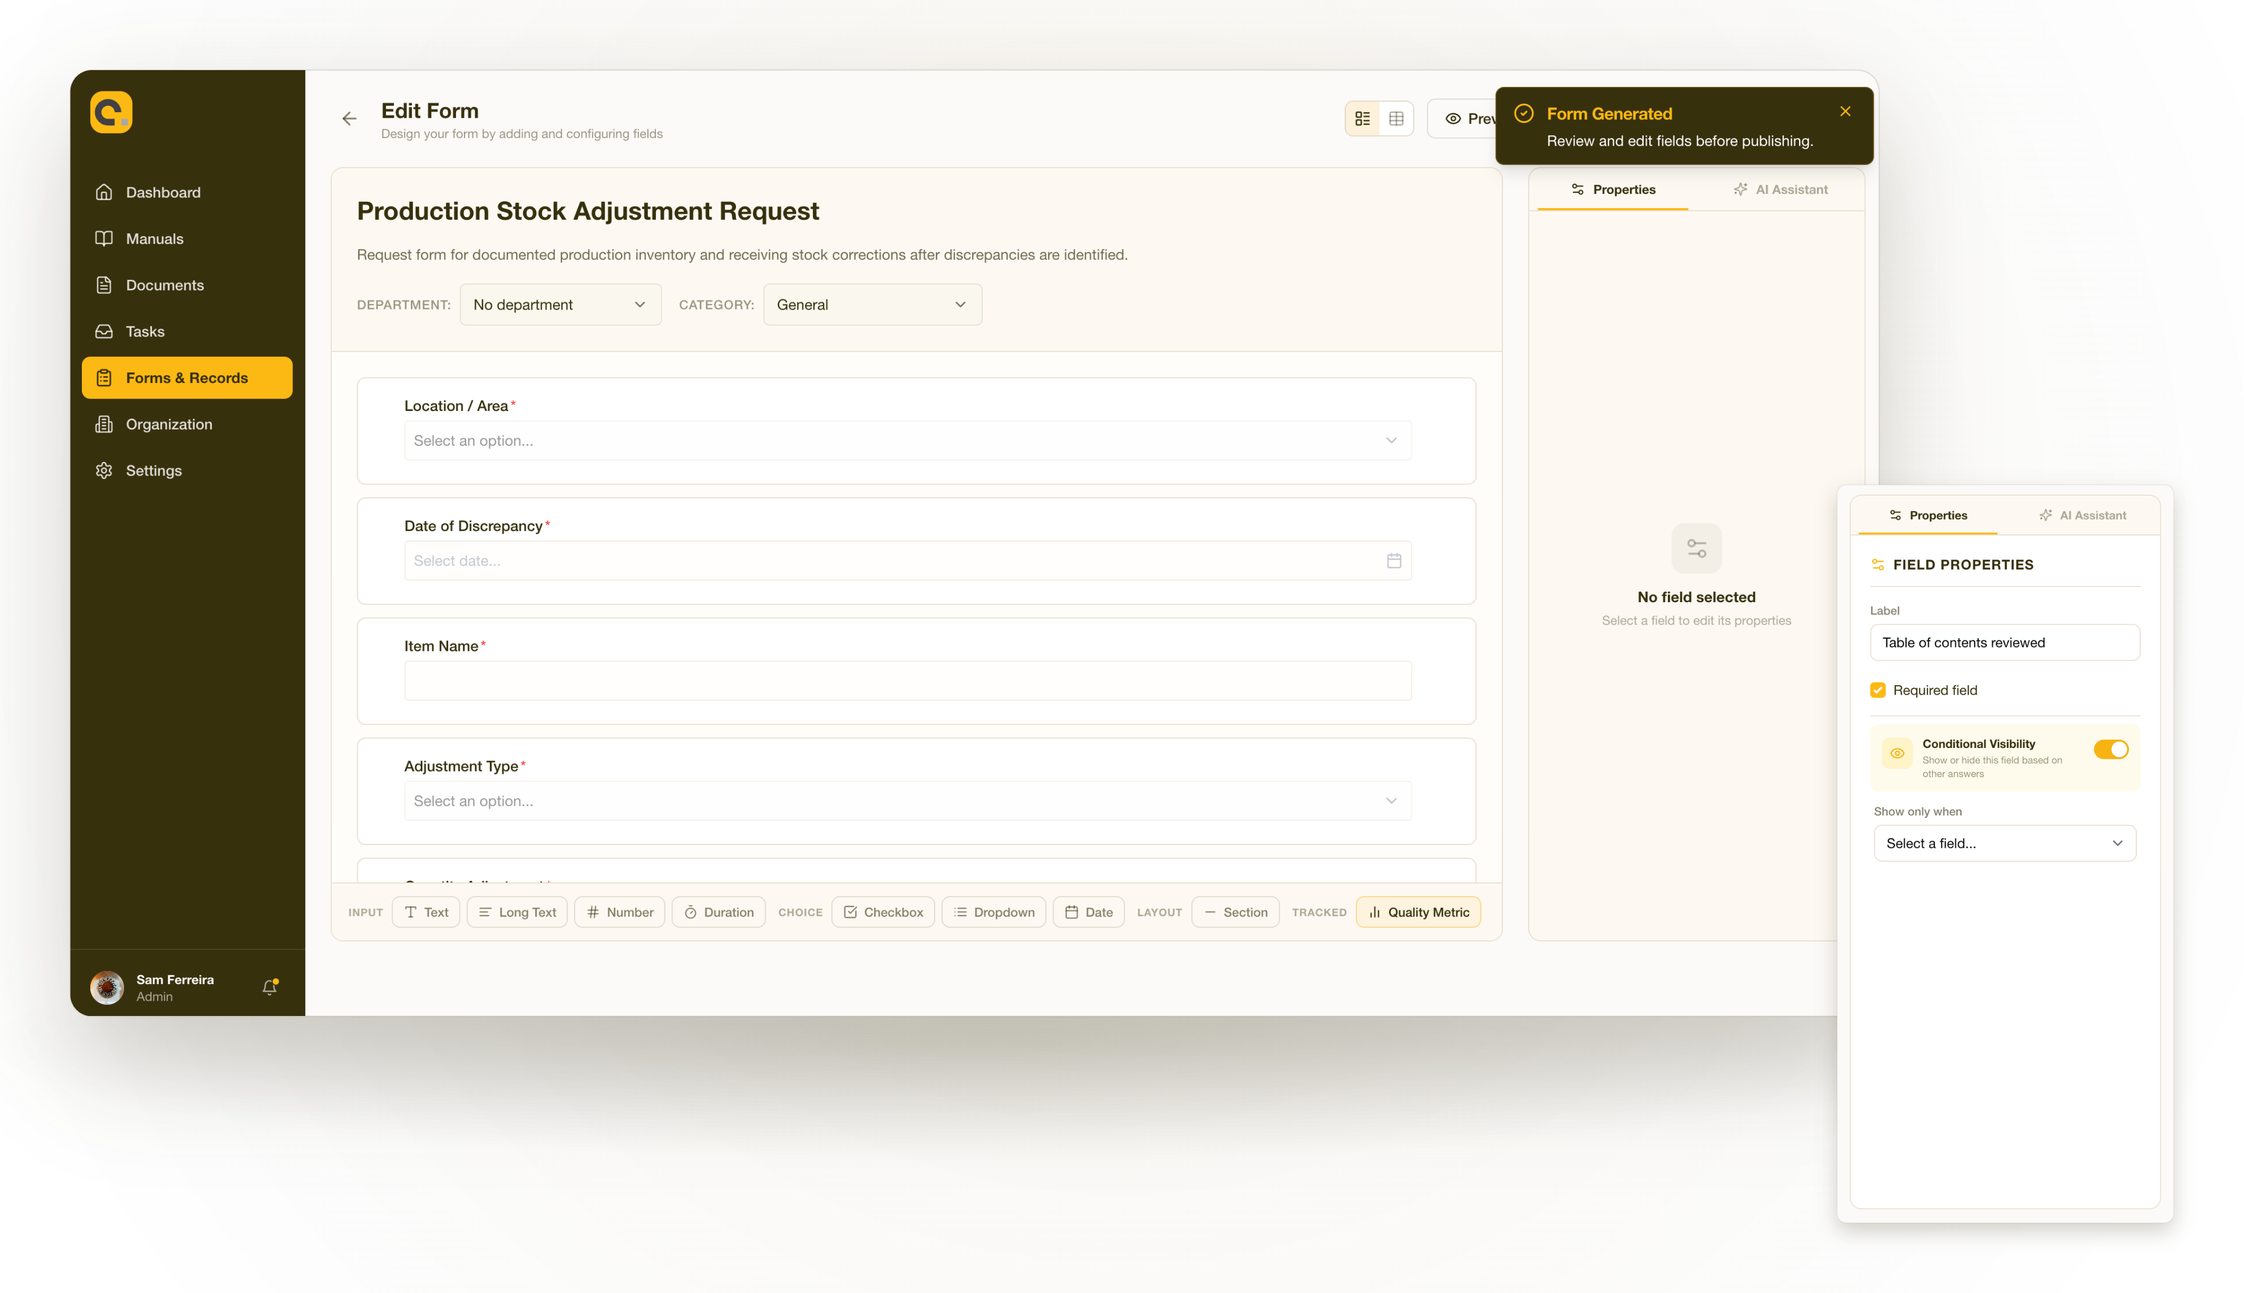
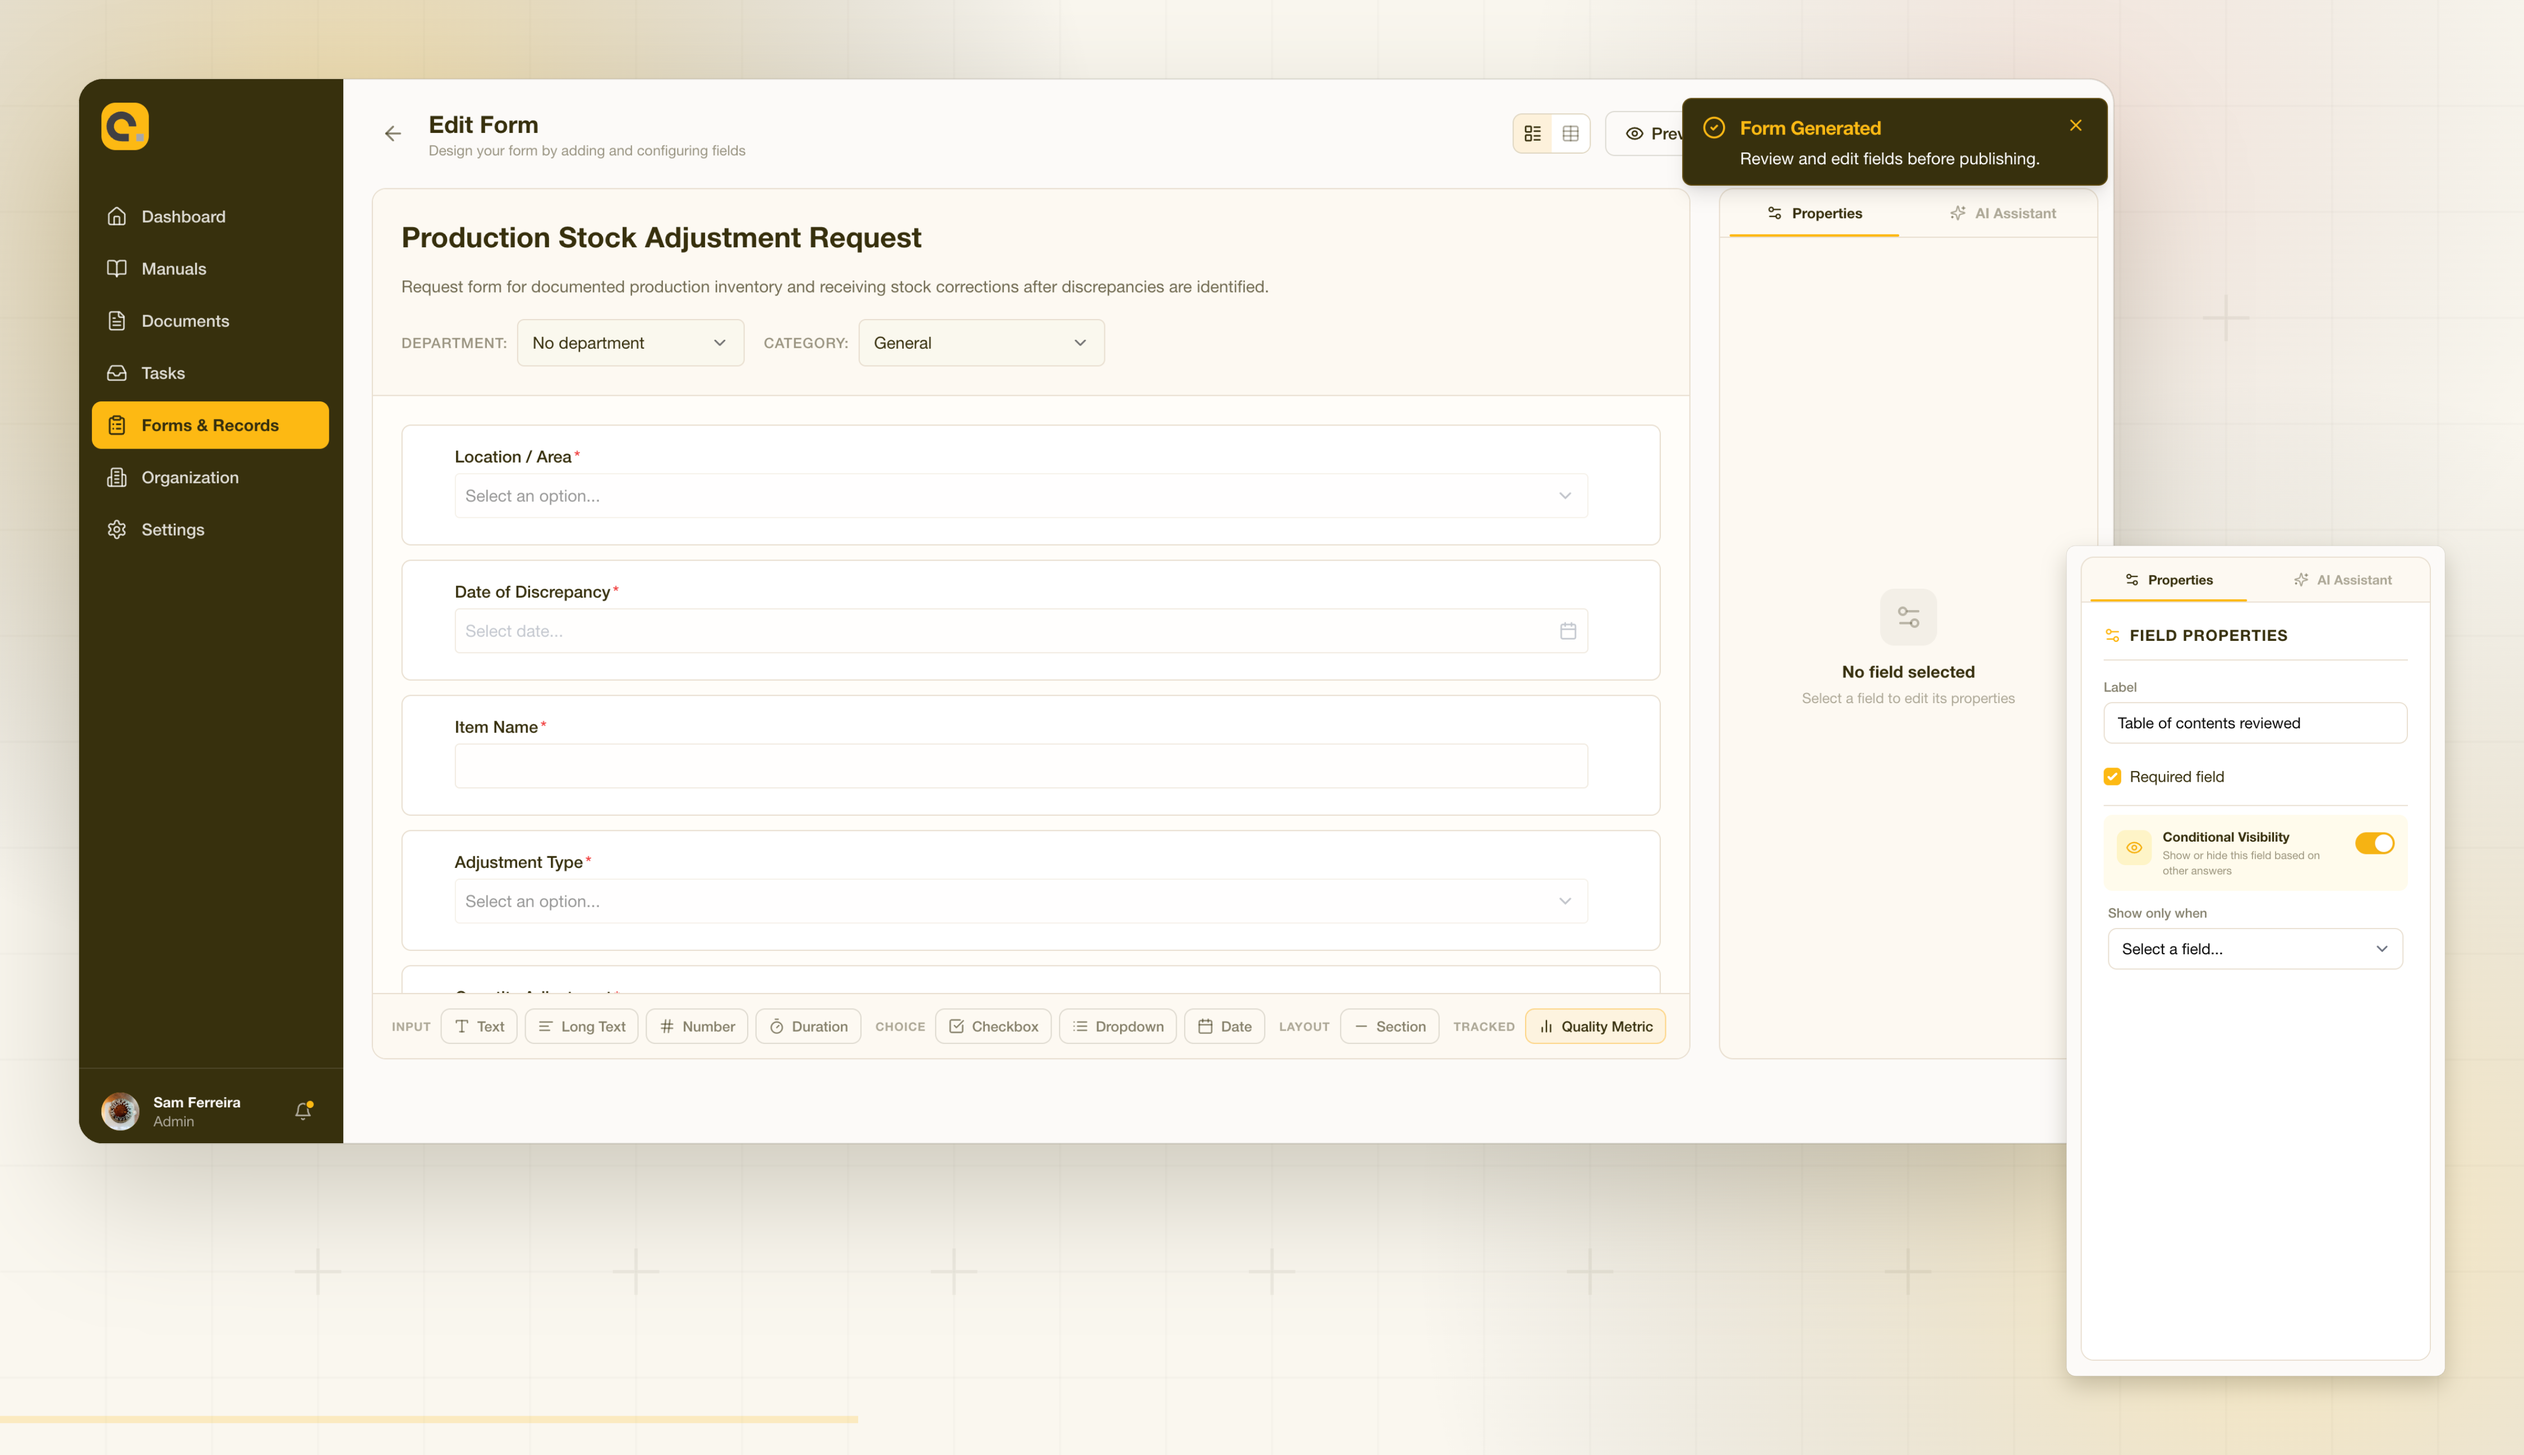
feat: update the form builder mock to the 4500px export

diff --git a/src/components/marketing/MarketingHome.tsx b/src/components/marketing/MarketingHome.tsx
@@ -605,8 +605,8 @@ function FormsBand() {
         <Screenshot
           src="/images/form-builder-mock.png"
           alt="Contourna form builder generating a production stock adjustment request form, with a field properties panel and a Form Generated confirmation"
-          width={4000}
-          height={2306}
+          width={4500}
+          height={2595}
           sizes="100vw"
           bare
         />
